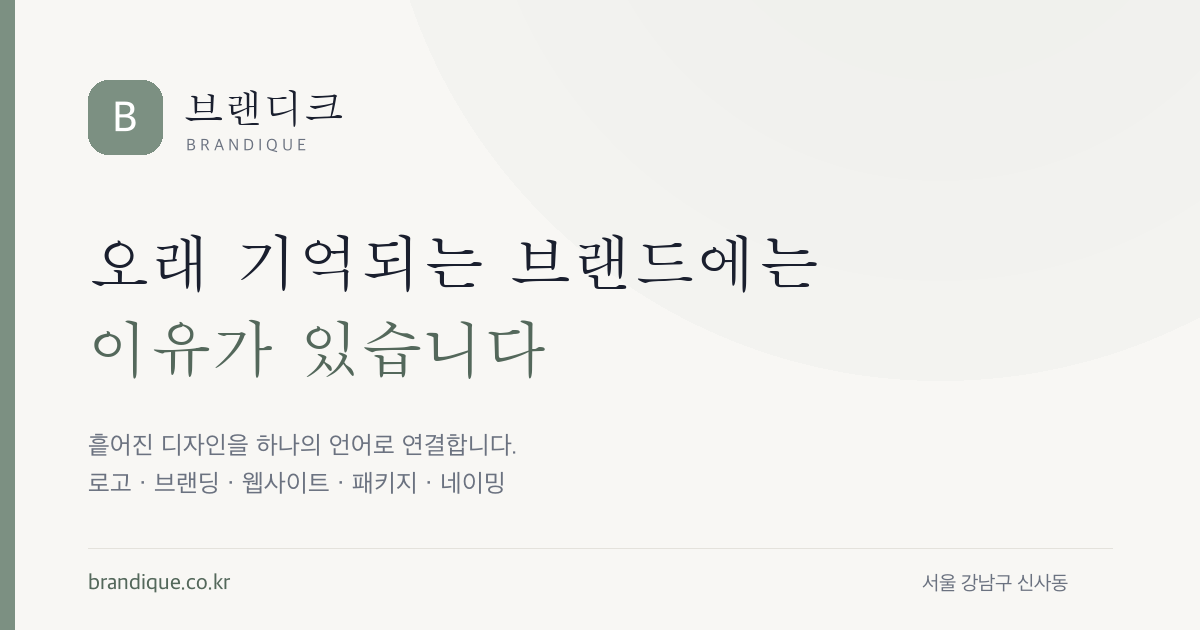
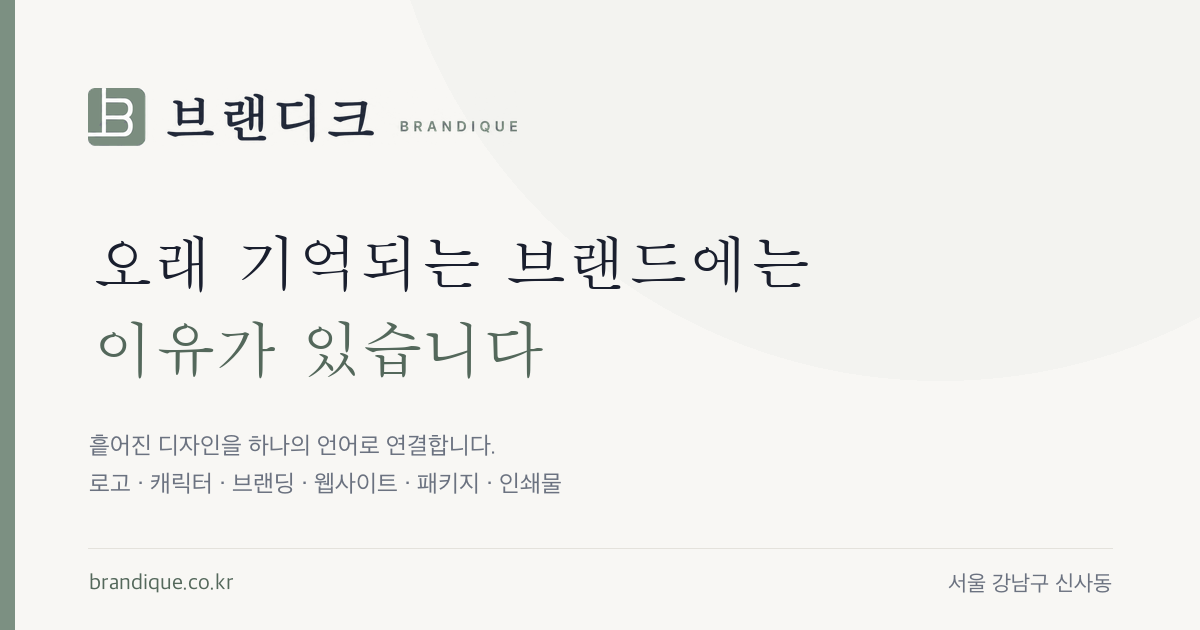
실제 로고 적용 — 헤더·푸터·파비콘·공유카드

diff --git a/index.html b/index.html
@@ -7,7 +7,8 @@
 <meta name="description" content="흩어진 디자인을 하나의 언어로. 로고·브랜딩부터 웹사이트, 패키지·인쇄물까지 완성하는 브랜드 디자인 스튜디오 브랜디크. 서울 강남구 압구정로2길 46.">
 <meta name="naver-site-verification" content="85a9dc7929b9762d028d2d4e3609cea6fb80e054" />
 <link rel="canonical" href="https://brandique.co.kr/">
-<link rel="icon" type="image/svg+xml" href="assets/favicon.svg">
+<link rel="icon" type="image/png" sizes="32x32" href="assets/favicon-32.png">
+<link rel="icon" type="image/png" sizes="180x180" href="assets/apple-touch-icon.png">
 <link rel="apple-touch-icon" href="assets/apple-touch-icon.png">
 <meta name="theme-color" content="#F8F7F4">
 <meta property="og:type" content="website">
@@ -160,14 +161,8 @@ h3{font-size:1.18rem}
 }
 .gnb.stuck{border-bottom-color:var(--line);box-shadow:0 1px 20px rgba(26,31,46,.05)}
 .gnb .row{max-width:var(--wrap);margin:0 auto;padding:0 24px;height:100%;display:flex;align-items:center;gap:20px}
-.logo{display:flex;align-items:baseline;gap:9px;font-family:var(--serif);font-size:1.32rem;font-weight:700;letter-spacing:-.01em}
-.logo .mark{
-  width:26px;height:26px;border-radius:8px;background:var(--brand);
-  display:inline-flex;align-items:center;justify-content:center;
-  color:#fff;font-family:var(--mono);font-size:.72rem;font-weight:700;
-  align-self:center;flex:none;
-}
-.logo small{font-family:var(--mono);font-size:.56rem;letter-spacing:.24em;color:var(--sub);font-weight:600}
+.logo img{height:34px;width:auto;max-width:100%;display:block}
+@media(max-width:560px){.logo img{height:27px}}
 .menu{margin-left:auto;display:flex;align-items:center;gap:30px}
 .menu a{font-size:.92rem;font-weight:500;color:var(--ink);position:relative;padding:4px 0;transition:color .2s}
 .menu a::after{
@@ -589,10 +584,7 @@ footer{background:var(--paper);border-top:1px solid var(--line);padding:60px 0 4
 <!-- ══════════ 상단 고정 GNB ══════════ -->
 <header class="gnb" id="gnb">
   <div class="row">
-    <a class="logo" href="#top">
-      <span class="mark">B</span>
-      <span>브랜디크 <small>BRANDIQUE</small></span>
-    </a>
+    <a class="logo" href="#top"><img src="assets/brand/logo-h.png" alt="브랜디크 BRANDIQUE" width="977" height="132"></a>
     <nav class="menu" id="menu">
       <a href="#work">포트폴리오</a>
       <a href="#price">구성 및 가격</a>
@@ -978,7 +970,7 @@ footer{background:var(--paper);border-top:1px solid var(--line);padding:60px 0 4
   <div class="wrap">
     <div class="f-top">
       <div class="f-brand">
-        <a class="logo" href="#top"><span class="mark">B</span><span>브랜디크 <small>BRANDIQUE</small></span></a>
+        <a class="logo" href="#top"><img src="assets/brand/logo-h.png" alt="브랜디크 BRANDIQUE" width="977" height="132"></a>
         <p>브랜드 디자인 스튜디오.<br>로고·브랜딩부터 웹사이트, 패키지·인쇄물까지 하나의 톤으로 만듭니다.<br>1인 브랜드부터 기업 프로젝트까지.</p>
       </div>
       <div class="f-col">

diff --git a/works.html b/works.html
@@ -6,7 +6,8 @@
 <title>포트폴리오 · 브랜디크</title>
 <meta name="description" content="브랜디크가 설계한 브랜드들. 로고·캐릭터·브랜딩·웹사이트·패키지·인쇄물 작업 전체를 업종과 작업 유형으로 살펴보세요.">
 <link rel="canonical" href="https://brandique.co.kr/works.html">
-<link rel="icon" type="image/svg+xml" href="assets/favicon.svg">
+<link rel="icon" type="image/png" sizes="32x32" href="assets/favicon-32.png">
+<link rel="icon" type="image/png" sizes="180x180" href="assets/apple-touch-icon.png">
 <link rel="apple-touch-icon" href="assets/apple-touch-icon.png">
 <meta name="theme-color" content="#F8F7F4">
 <meta property="og:type" content="website">
@@ -50,10 +51,8 @@ h1,h2,h3{font-family:var(--serif);font-weight:700;letter-spacing:-.015em;line-he
   backdrop-filter:saturate(180%) blur(14px);-webkit-backdrop-filter:saturate(180%) blur(14px);
   border-bottom:1px solid var(--line)}
 .top .row{max-width:var(--wrap);margin:0 auto;padding:0 24px;height:66px;display:flex;align-items:center;gap:14px}
-.logo{display:flex;align-items:center;gap:9px;font-family:var(--serif);font-size:1.24rem;font-weight:700}
-.logo .mark{width:26px;height:26px;border-radius:8px;background:var(--brand);color:#fff;flex:none;
-  display:flex;align-items:center;justify-content:center;font-family:var(--mono);font-size:.72rem;font-weight:700}
-.logo small{font-family:var(--mono);font-size:.56rem;letter-spacing:.24em;color:var(--sub);font-weight:600}
+.logo img{height:34px;width:auto;max-width:100%;display:block}
+@media(max-width:560px){.logo img{height:27px}}
 .top .right{margin-left:auto;display:flex;align-items:center;gap:18px}
 .top .right a{font-size:.9rem;color:var(--sub)}
 .top .right a:hover{color:var(--brand-deep)}
@@ -163,7 +162,7 @@ body.locked{overflow:hidden}
 
 <header class="top">
   <div class="row">
-    <a class="logo" href="index.html"><span class="mark">B</span><span>브랜디크 <small>BRANDIQUE</small></span></a>
+    <a class="logo" href="index.html"><img src="assets/brand/logo-h.png" alt="브랜디크 BRANDIQUE" width="977" height="132"></a>
     <div class="right">
       <a href="index.html#price">구성 및 가격</a>
       <a href="survey.html">무료 상담 신청</a>

diff --git a/survey.html b/survey.html
@@ -6,7 +6,8 @@
 <title>브랜드 설문 작성 · 브랜디크</title>
 <meta name="description" content="브랜디크 브랜드 설문. 5분이면 충분합니다. 작성해 주시면 방향과 견적을 정리해 답변드립니다.">
 <link rel="canonical" href="https://brandique.co.kr/survey.html">
-<link rel="icon" type="image/svg+xml" href="assets/favicon.svg">
+<link rel="icon" type="image/png" sizes="32x32" href="assets/favicon-32.png">
+<link rel="icon" type="image/png" sizes="180x180" href="assets/apple-touch-icon.png">
 <link rel="apple-touch-icon" href="assets/apple-touch-icon.png">
 <meta name="theme-color" content="#F8F7F4">
 <meta property="og:type" content="website">
@@ -54,10 +55,8 @@ h1,h2,h3{font-family:var(--serif);font-weight:700;letter-spacing:-.015em;line-he
   backdrop-filter:saturate(180%) blur(14px);-webkit-backdrop-filter:saturate(180%) blur(14px);
   border-bottom:1px solid var(--line)}
 .top .row{max-width:var(--wrap);margin:0 auto;padding:0 24px;height:66px;display:flex;align-items:center;gap:14px}
-.logo{display:flex;align-items:center;gap:9px;font-family:var(--serif);font-size:1.24rem;font-weight:700}
-.logo .mark{width:26px;height:26px;border-radius:8px;background:var(--brand);color:#fff;flex:none;
-  display:flex;align-items:center;justify-content:center;font-family:var(--mono);font-size:.72rem;font-weight:700}
-.logo small{font-family:var(--mono);font-size:.56rem;letter-spacing:.24em;color:var(--sub);font-weight:600}
+.logo img{height:34px;width:auto;max-width:100%;display:block}
+@media(max-width:560px){.logo img{height:27px}}
 .back{margin-left:auto;font-size:.9rem;color:var(--sub);display:inline-flex;align-items:center;gap:6px}
 .back:hover{color:var(--brand-deep)}
 
@@ -179,7 +178,7 @@ footer{border-top:1px solid var(--line);padding:30px 0;text-align:center;font-si
 
 <header class="top">
   <div class="row">
-    <a class="logo" href="index.html"><span class="mark">B</span><span>브랜디크 <small>BRANDIQUE</small></span></a>
+    <a class="logo" href="index.html"><img src="assets/brand/logo-h.png" alt="브랜디크 BRANDIQUE" width="977" height="132"></a>
     <a class="back" href="index.html">← 홈으로</a>
   </div>
 </header>

diff --git a/legal.html b/legal.html
@@ -6,7 +6,8 @@
 <title>개인정보처리방침 · 이용약관 | 브랜디크</title>
 <meta name="description" content="브랜디크 개인정보처리방침 및 이용약관.">
 <link rel="canonical" href="https://brandique.co.kr/legal.html">
-<link rel="icon" type="image/svg+xml" href="assets/favicon.svg">
+<link rel="icon" type="image/png" sizes="32x32" href="assets/favicon-32.png">
+<link rel="icon" type="image/png" sizes="180x180" href="assets/apple-touch-icon.png">
 <link rel="apple-touch-icon" href="assets/apple-touch-icon.png">
 <meta name="theme-color" content="#F8F7F4">
 <meta property="og:type" content="website">
@@ -48,10 +49,8 @@ button{font:inherit;color:inherit;background:none;border:0;cursor:pointer}
   backdrop-filter:saturate(180%) blur(14px);-webkit-backdrop-filter:saturate(180%) blur(14px);
   border-bottom:1px solid var(--line)}
 .top .row{max-width:var(--wrap);margin:0 auto;padding:0 24px;height:66px;display:flex;align-items:center;gap:14px}
-.logo{display:flex;align-items:center;gap:9px;font-family:var(--serif);font-size:1.24rem;font-weight:700}
-.logo .mark{width:26px;height:26px;border-radius:8px;background:var(--brand);color:#fff;flex:none;
-  display:flex;align-items:center;justify-content:center;font-family:var(--mono);font-size:.72rem;font-weight:700}
-.logo small{font-family:var(--mono);font-size:.56rem;letter-spacing:.24em;color:var(--sub);font-weight:600}
+.logo img{height:34px;width:auto;max-width:100%;display:block}
+@media(max-width:560px){.logo img{height:27px}}
 .back{margin-left:auto;font-size:.9rem;color:var(--sub)}
 .back:hover{color:var(--brand-deep)}
 
@@ -94,7 +93,7 @@ footer{border-top:1px solid var(--line);padding:28px 0;text-align:center;font-si
 
 <header class="top">
   <div class="row">
-    <a class="logo" href="index.html"><span class="mark">B</span><span>브랜디크 <small>BRANDIQUE</small></span></a>
+    <a class="logo" href="index.html"><img src="assets/brand/logo-h.png" alt="브랜디크 BRANDIQUE" width="977" height="132"></a>
     <a class="back" href="index.html">← 홈으로</a>
   </div>
 </header>
